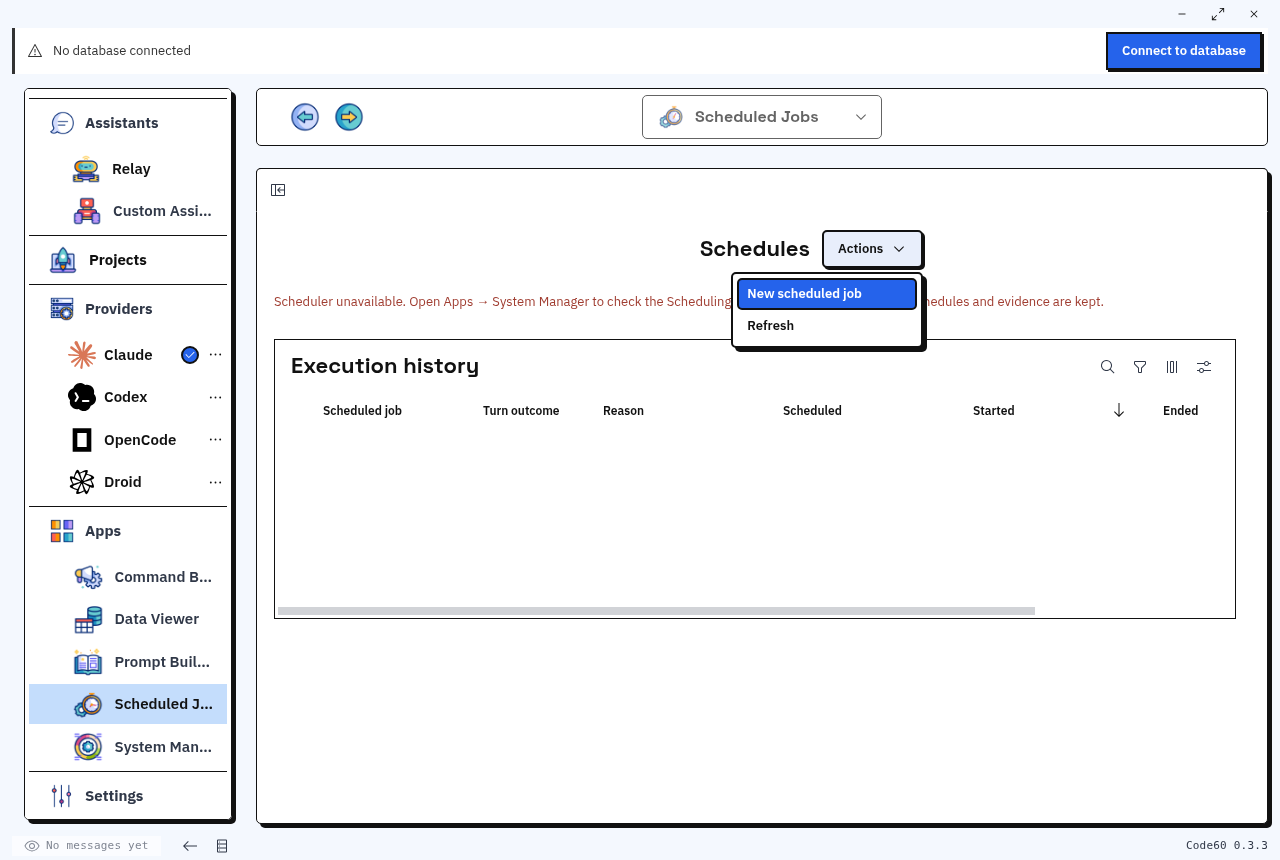
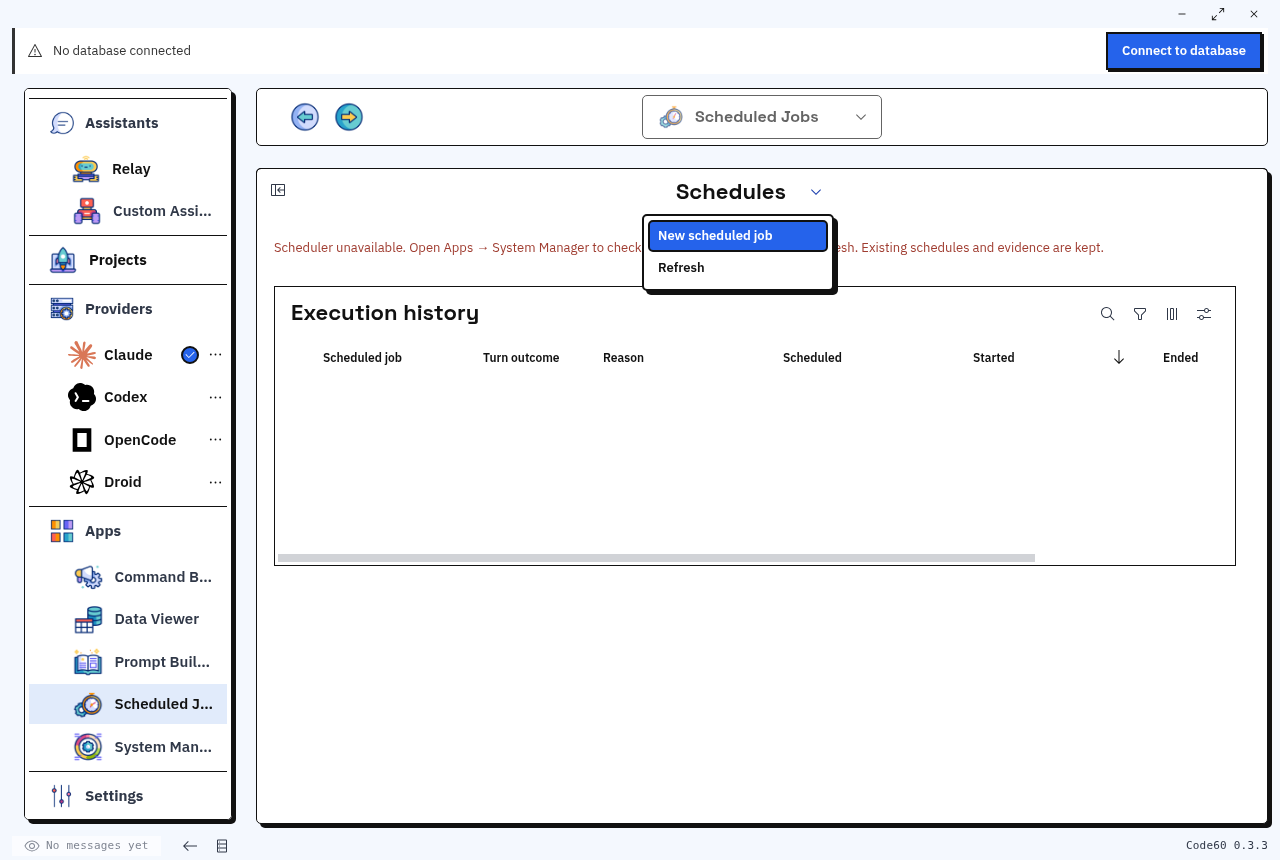
fix: group scheduled heading with chevron at card top

diff --git a/test/desktop.e2e.ts b/test/desktop.e2e.ts
@@ -1730,27 +1730,31 @@ test("desktop: Scheduled Jobs uses accordions and an inline editor at narrow wid
       await expect(canvas).toBeVisible();
       expect((await canvas.boundingBox())?.height).toBeGreaterThan(100);
     }
-    const expectScheduleHeading = async (stacked = false) => {
+    const expectScheduleHeading = async () => {
       const header = await panel.locator(".automation-page-heading").boundingBox();
       const title = await panel
         .getByRole("heading", { name: "Schedules", exact: true })
         .boundingBox();
-      const actions = await panel
-        .getByRole("button", { name: "Actions", exact: true })
-        .boundingBox();
-      if (!header || !title || !actions) throw new Error("Missing schedule heading geometry");
-      expect(Math.abs(title.x + title.width / 2 - header.x - header.width / 2)).toBeLessThan(1);
-      if (stacked) {
-        expect(actions.y).toBeGreaterThanOrEqual(title.y + title.height);
-        expect(Math.abs(actions.x + actions.width / 2 - header.x - header.width / 2)).toBeLessThan(
-          1,
-        );
-      } else {
-        expect(actions.x - title.x - title.width).toBeCloseTo(12, 0);
-        expect(Math.abs(title.y + title.height / 2 - actions.y - actions.height / 2)).toBeLessThan(
-          2,
-        );
-      }
+      const trigger = panel.getByRole("button", { name: "Actions", exact: true });
+      const actions = await trigger.boundingBox();
+      const controls = await page.locator(".workspace-panel-controls").boundingBox();
+      if (!header || !title || !actions || !controls)
+        throw new Error("Missing schedule heading geometry");
+      const groupCenter = (title.x + actions.x + actions.width) / 2;
+      expect(Math.abs(groupCenter - header.x - header.width / 2)).toBeLessThan(1);
+      expect(actions.x - title.x - title.width).toBeCloseTo(12, 0);
+      expect(Math.abs(title.y + title.height / 2 - actions.y - actions.height / 2)).toBeLessThan(2);
+      expect(header.y).toBeLessThan(controls.y + 4);
+      await expect(trigger).toHaveText("");
+      await expect(trigger).toHaveAttribute("title", "Actions");
+      expect(
+        await trigger.evaluate((element) => {
+          const bounds = element.getBoundingClientRect();
+          return element.contains(
+            document.elementFromPoint(bounds.x + bounds.width / 2, bounds.y + bounds.height / 2),
+          );
+        }),
+      ).toBe(true);
     };
     for (const scheme of ["light", "dark"]) {
       await page.evaluate(
@@ -1765,6 +1769,14 @@ test("desktop: Scheduled Jobs uses accordions and an inline editor at narrow wid
       await page.keyboard.press("Escape");
       await expect(actions).toBeFocused();
     }
+    const closeNavigation = page.getByRole("button", {
+      name: "Close navigation sidebar",
+      exact: true,
+    });
+    await closeNavigation.click();
+    await expect(page.locator(".sidebar")).toHaveAttribute("data-open", "false");
+    await page.getByRole("button", { name: "Open navigation sidebar", exact: true }).click();
+    await expect(page.locator(".sidebar")).toHaveAttribute("data-open", "true");
     const actions = panel.getByRole("button", { name: "Actions", exact: true });
     await actions.press("ArrowUp");
     const menu = page.getByRole("menu", { name: "Actions" });
@@ -1821,7 +1833,7 @@ test("desktop: Scheduled Jobs uses accordions and an inline editor at narrow wid
     await expect
       .poll(async () => (await headingRow.boundingBox())?.width ?? 1000)
       .toBeLessThan(480);
-    await expectScheduleHeading(true);
+    await expectScheduleHeading();
     await page.screenshot({ path: test.info().outputPath("automations-heading-narrow.png") });
     expect(
       await panel
@@ -1832,6 +1844,17 @@ test("desktop: Scheduled Jobs uses accordions and an inline editor at narrow wid
     await expect(menu).toBeVisible();
     await actions.click();
     await expect(menu).toHaveCount(0);
+    const schedulesTitle = panel.getByRole("heading", { name: "Schedules", exact: true });
+    await schedulesTitle.evaluate((element) => element.style.setProperty("--card-size", "40px"));
+    await expect(schedulesTitle).toHaveCSS("font-size", "40px");
+    await expectScheduleHeading();
+    expect(
+      await panel
+        .locator(".automations-page")
+        .evaluate((element) => element.scrollWidth > element.clientWidth),
+    ).toBe(false);
+    await page.screenshot({ path: test.info().outputPath("automations-heading-large-text.png") });
+    await schedulesTitle.evaluate((element) => element.style.removeProperty("--card-size"));
     await page.emulateMedia({ reducedMotion: "reduce", forcedColors: "active" });
     await actions.click();
     await expect(menu).toBeInViewport();

diff --git a/src/renderer/styles/automations.css b/src/renderer/styles/automations.css
@@ -13,37 +13,26 @@
   scrollbar-gutter: stable;
 }
 .automation-page-heading {
-  display: grid;
-  grid-template-columns: minmax(0, 1fr) auto minmax(0, 1fr);
-  padding-top: 16px;
+  display: flex;
+  justify-content: center;
   align-items: center;
   gap: 12px;
+  min-height: var(--panel-controls-height);
+  padding: 4px 32px;
   margin: 0 0 var(--page-header-gap);
+  position: sticky;
+  top: 0;
+  z-index: 2;
+  background: var(--content-background);
 }
 .automation-page-heading > h2 {
-  grid-column: 2;
   min-width: 0;
   margin: 0;
   text-align: center;
   overflow-wrap: anywhere;
 }
 .automation-page-heading > button {
-  grid-column: 3;
-  justify-self: start;
-  min-width: 0;
-  max-width: 100%;
-  white-space: normal;
-  overflow-wrap: anywhere;
-}
-@container automations (width < 480px) {
-  .automation-page-heading {
-    grid-template-columns: minmax(0, 1fr);
-  }
-  .automation-page-heading > h2,
-  .automation-page-heading > button {
-    grid-column: 1;
-    justify-self: center;
-  }
+  flex-shrink: 0;
 }
 .automation-action-group,
 .automation-details-actions {

diff --git a/src/renderer/neobrutalism/dropdown-menu.tsx b/src/renderer/neobrutalism/dropdown-menu.tsx
@@ -7,12 +7,14 @@ import { Button } from "./button.js";
 /** Upstream dropdown presentation with Code60's native, anchored menu lifecycle. */
 export function DropdownMenu({
   label,
+  iconOnly = false,
   active,
   disabled,
   items,
   triggerRef,
 }: {
   label: string;
+  iconOnly?: boolean;
   active: boolean;
   disabled: boolean;
   items: readonly { label: string; run(): void }[];
@@ -34,6 +36,9 @@ export function DropdownMenu({
     <>
       <Button
         ref={trigger}
+        className={iconOnly ? "icon-button" : undefined}
+        aria-label={iconOnly ? label : undefined}
+        title={iconOnly ? label : undefined}
         aria-haspopup="menu"
         aria-expanded={expanded}
         aria-controls={expanded ? id : undefined}
@@ -45,7 +50,7 @@ export function DropdownMenu({
           open(event.key === "ArrowUp");
         }}
       >
-        {label}
+        {!iconOnly && label}
         <Icon name="chevron--down" />
       </Button>
       {expanded && position && (

diff --git a/src/renderer/automations.test.tsx b/src/renderer/automations.test.tsx
@@ -34,6 +34,11 @@ it("keeps service controls and explanatory notes out of Scheduled Jobs", () => {
   expect(markup).not.toContain('data-test-table="automations"');
   expect(markup).toContain('data-slot="accordion"');
   expect(markup).toContain('aria-haspopup="menu"');
+  const trigger = markup.match(/<button[^>]*aria-label="Actions"[^>]*>([\s\S]*?)<\/button>/);
+  expect(trigger).not.toBeNull();
+  expect(trigger?.[1]).toContain('<svg class="carbon-icon"');
+  expect(trigger?.[1]).toContain('aria-hidden="true"');
+  expect(trigger?.[1]).not.toContain("Actions");
   expect(markup).not.toContain("Refresh scheduled jobs");
   expect(markup).not.toContain("New scheduled job");
   expect(markup).toContain('data-test-table="automation-history"');

diff --git a/src/renderer/styles/layout.css b/src/renderer/styles/layout.css
@@ -192,6 +192,15 @@ body:has(.app .sidebar) {
   overflow: hidden;
 }
 
+/* Scheduled Jobs shares the corner-control row with its centered heading. */
+#panel-automations {
+  padding-top: 1px;
+}
+.app-workspace:has(> #panel-automations:not([hidden])) > .workspace-panel-controls {
+  background: transparent;
+  pointer-events: none;
+}
+
 /* Paint only the main reading plane; nested controls and Cards retain their fills. */
 @media (forced-colors: none) {
   .page-panel[data-slot="card"],

diff --git a/src/renderer/automations.tsx b/src/renderer/automations.tsx
@@ -165,6 +165,7 @@ export function AutomationsPage({
         </h2>
         <DropdownMenu
           label="Actions"
+          iconOnly
           triggerRef={actionsTrigger}
           active={visible}
           disabled={busy || !!editor}

diff --git a/src/renderer/AGENTS.md b/src/renderer/AGENTS.md
@@ -204,10 +204,12 @@
   small title sizes and taller actions do not shift titles. Put project-readiness
   notices below chat headers, not above them.
 - Scheduled Jobs uses local Neobrutalism accordions for jobs and a table for
-  Execution history. Center Schedules independently in the available content width;
-  place Actions immediately 12px to its right with the same vertical center and a
-  16px top inset. Below 480px content width, center Actions below the title to avoid
-  overflow. Actions contains New scheduled job/Refresh; creation/editing stays inline.
+  Execution history. Center Schedules and its chevron-only Actions trigger as one
+  group with a 12px gap, including narrow content widths. Share the main card's
+  corner-control row with symmetric side clearance; keep the heading visible
+  while scrolling and wrap larger text without displacing the corner toggles.
+  Retain the Actions accessible name/tooltip and New scheduled job/Refresh menu;
+  creation/editing stays inline.
   Order independent run/cancel, delete and disclosure controls in DOM and visually.
   Use 24px transparent circles in 28px targets with black outlines, 2px hard
   shadows, 1px press offsets and contrasting glyphs. Only the final chevron toggles
@@ -976,8 +978,9 @@ Panel toggles share a stationary row at the top of the main content Card: sideba
 open/close at the upper left, Files open/close at the upper right when an active
 file-panel owner exists. The row overlays the Card's grid cell and follows the
 measured conversation inset through sidebar and inspector resizing. Reserve 44px
-above scrolling content; keep the native window strip and breadcrumb Card free of
-panel toggles. The active PanelShell portals its existing action into the shared
+above scrolling content, except Scheduled Jobs whose centered heading shares that
+row with clear space for the corner controls. Keep the native window strip and
+breadcrumb Card free of panel toggles. The active PanelShell portals its existing action into the shared
 right slot in both open/closed states, preserving labels, disabled state, tab
 order, focus, draft/scroll state and read ownership. Inactive retained panels
 never publish a toggle. Closing panels leaves both corner actions reachable;

diff --git a/ARCHITECTURE.md b/ARCHITECTURE.md
@@ -1833,9 +1833,11 @@ Secondary section headings, file-panel headings and embedded table history are n
 separate page breadcrumbs. Keep rename controls independent and never nest buttons.
 
 Scheduled Jobs lists schedules as local MIT Neobrutalism accordions. Center the
-Schedules heading in the content area, with Actions immediately 12px to its right
-and a 16px top inset. Below 480px of available content width, center Actions on a
-second row to preserve access without overflow. Actions offers the existing New scheduled job and Refresh handlers;
+Schedules heading and its chevron-only Actions menu together, with a 12px gap.
+Share the main card's top corner-control row rather than reserving extra vertical
+space. Keep symmetric side clearance for the panel toggles, allow long headings
+to wrap, and keep the heading row visible while scrolling. The menu retains its
+Actions accessible name, tooltip and existing New scheduled job/Refresh handlers;
 creation and editing use inline Card/Button/Textarea controls. Execution history
 remains a table, with its own icon-free Card Titles heading. Only the outer
 Scheduled Jobs title is a page breadcrumb.
@@ -2620,8 +2622,9 @@ Panel toggles share a stationary row at the top of the main content Card: sideba
 open/close at the upper left, Files open/close at the upper right when an active
 file-panel owner exists. The row overlays the Card's grid cell and follows the
 measured conversation inset through sidebar and inspector resizing. Reserve 44px
-above scrolling content; keep the native window strip and breadcrumb Card free of
-panel toggles. The active PanelShell portals its existing action into the shared
+above scrolling content, except Scheduled Jobs whose centered heading shares that
+row with clear space for the corner controls. Keep the native window strip and
+breadcrumb Card free of panel toggles. The active PanelShell portals its existing action into the shared
 right slot in both open/closed states, preserving labels, disabled state, tab
 order, focus, draft/scroll state and read ownership. Inactive retained panels
 never publish a toggle. Closing panels leaves both corner actions reachable;

diff --git a/docs/review/gui-standardization/README.md b/docs/review/gui-standardization/README.md
@@ -20,7 +20,8 @@ light foreground; Light and forced colors retain their own palettes.
 
 ![Dark sidebar headers matching the breadcrumb Card](after-dark.png)
 
-Scheduled Jobs centers the Schedules heading independently, with Actions 12px to
-its right. Below 480px of content width, Actions moves to a centered second row.
+Scheduled Jobs centers Schedules and the chevron-only Actions trigger as one group,
+with a 12px gap. They share the top row with the corner panel toggles; narrow
+layouts and larger text retain access without a separate reserved row.
 
-![Centered Schedules heading and adjacent Actions menu](after-scheduled-jobs.png)
+![Centered Schedules and chevron group sharing the corner-control row](after-scheduled-jobs.png)
